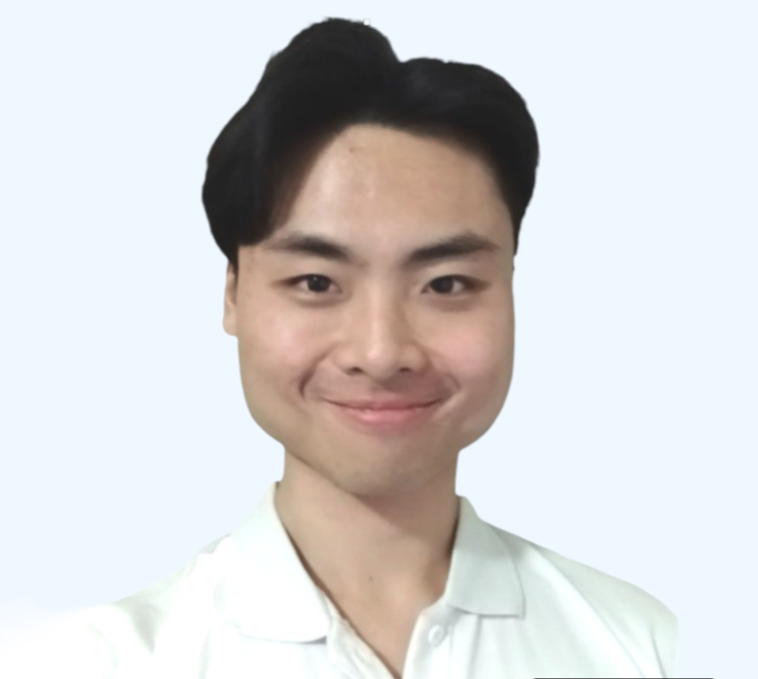
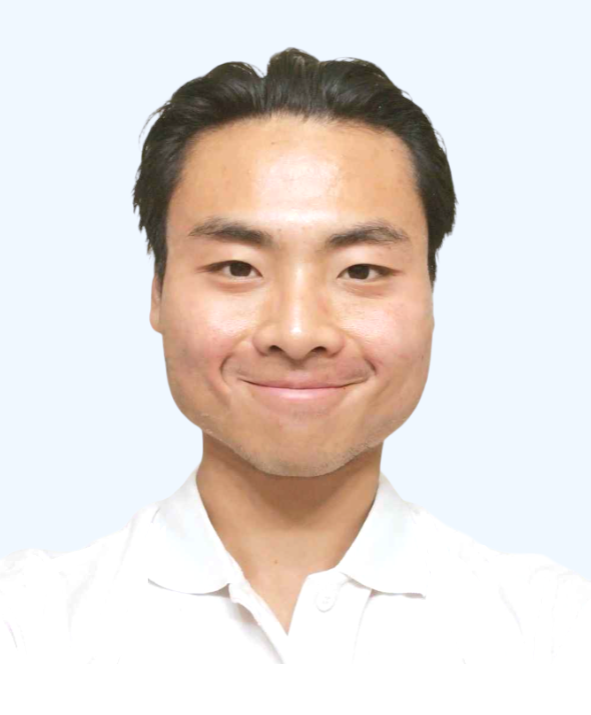
update pfp and desc.

diff --git a/src/scss/partials/layouts/_slide-content.scss b/src/scss/partials/layouts/_slide-content.scss
@@ -72,7 +72,7 @@
                 left: 0;
                 @media screen and (min-width: $sm_breakpoint) {
                     font-weight: normal;
-                    font-size: 7.6rem;
+                    font-size: 6.6rem;
                     width: 70%;
                 }
                 @media screen and (min-width: $md_breakpoint) {
@@ -82,10 +82,10 @@
                 @media screen and (min-width: $lg_breakpoint) {
                     font-size: 10rem;
                 }
-                @media screen and (min-width: $xl_breakpoint) {
-                    font-size: 12rem;
-                    letter-spacing: 1.5rem;
-                }
+                // @media screen and (min-width: $xl_breakpoint) {
+                //     font-size: 12rem;
+                //     letter-spacing: 1.5rem;
+                // }
 
                 line-height: 1;
                 letter-spacing: 1rem;
@@ -166,23 +166,39 @@
             height: 100%;
         }
     }
-    &__pfp-and-title{
+    &__pfp-and-title {
+        //I CHEESED THE MARGIN BOTTOM SPACINGS FOR THIS
+        // TURN ON BACKGORUND RED AND YOU KNOW WHAT I MEAN
         display: flex;
+        align-items: flex-end;
         align-items: center;
+
+        flex-direction: column-reverse;
+        @media screen and (min-width: $sm_breakpoint) {
+            width: 20rem;
+            height: 20rem;
+            flex-direction: row;
+            align-items: flex-end;
+        }
     }
-    &__pfp-container{
-     margin-right: 2rem;
-     margin-bottom: 2rem;
+    &__pfp-container {
+        margin-right: 2rem;
+        margin-bottom: 1.6rem;
     }
-    &__pfp{
+    &__pfp {
         @media screen and (min-width: $lg_breakpoint) {
+            width: 22rem;
+            height: 22rem;
+        }
+        @media screen and (min-width: $md_breakpoint) {
             width: 20rem;
             height: 20rem;
         }
-     
-        width: 18rem;
-        height: 18rem;
-        border-radius: 50%,
+        object-fit: cover;
+        width: 15rem;
+        height: 15rem;
+        border-radius: 50%;
+        object-position: 25% 20%;
     }
 }
 

diff --git a/src/components/Carousel.tsx b/src/components/Carousel.tsx
@@ -18,11 +18,11 @@ import collage_work_mix from "../img/collage_work_mix.jpg";
 import bobbyhill from "../img/bobbyhill.jpg";
 export const SLIDE_ABOUT_ME_DESC =
     "Software Engineer II @ Lightspeed in Toronto, Canada. BSc Computer Science @ Wilfrid Laurier University. Roomates with 2 dogs.";
-export const STARTUP_DESC = `Starty is a social platform to help students innovate together & stand out to employers. Collaborating with accelerator and team to challenge decisions, address market research and pivot on ideas.`;
+export const STARTUP_DESC = `Starty is a social platform to help students innovate together with over 300+ registered users. With our partnership with Laurier's accelerator, we have been able to challenge strategic decisions, conduct thorough market research, and pivot ideas to align with market needs.`;
 export const WORK_PROJECTS_DESC =
     "Holiday recipes from employees in Habanero shared to over a dozen of clients such as Suncor & Petro-Canada.";
 export const SLIDE_PROJECTS_DESC =
-    "Websites I've built (Blizzard, Kijij, Netflix, Steam, and many more)";
+    "Non-enterprise websites I've built (Blizzard, Kijij, Netflix, Steam, and many more)";
 export const SLIDE_WORK_DESC =
     "Products I've engineered in professional workplaces, impacting entreprises such as Sony, Nordstrom, Hudson Bay, Petro Canada.";
 export const slides = [
@@ -35,7 +35,7 @@ export const slides = [
     },
     {
         imgSrc: bobbyhill,
-        title: `My Startup`,
+        title: `Starty`,
         desc: STARTUP_DESC,
     },
     {

diff --git a/src/scss/main.css b/src/scss/main.css
@@ -1316,7 +1316,7 @@ nav {
 @media screen and (min-width: 520px) {
   .content-slide__image-and-text-text-title {
     font-weight: normal;
-    font-size: 7.6rem;
+    font-size: 6.6rem;
     width: 70%;
   }
 }
@@ -1329,12 +1329,6 @@ nav {
 @media screen and (min-width: 992px) {
   .content-slide__image-and-text-text-title {
     font-size: 10rem;
-  }
-}
-@media screen and (min-width: 1200px) {
-  .content-slide__image-and-text-text-title {
-    font-size: 12rem;
-    letter-spacing: 1.5rem;
   }
 }
 .content-slide__image-and-text-text-desc {
@@ -1421,18 +1415,38 @@ nav {
 }
 .content-slide__pfp-and-title {
   display: flex;
+  align-items: flex-end;
   align-items: center;
+  flex-direction: column-reverse;
+}
+@media screen and (min-width: 520px) {
+  .content-slide__pfp-and-title {
+    width: 20rem;
+    height: 20rem;
+    flex-direction: row;
+    align-items: flex-end;
+  }
 }
 .content-slide__pfp-container {
   margin-right: 2rem;
-  margin-bottom: 2rem;
+  margin-bottom: 1.6rem;
 }
 .content-slide__pfp {
-  width: 18rem;
-  height: 18rem;
+  -o-object-fit: cover;
+     object-fit: cover;
+  width: 15rem;
+  height: 15rem;
   border-radius: 50%;
+  -o-object-position: 25% 20%;
+     object-position: 25% 20%;
 }
 @media screen and (min-width: 992px) {
+  .content-slide__pfp {
+    width: 22rem;
+    height: 22rem;
+  }
+}
+@media screen and (min-width: 768px) {
   .content-slide__pfp {
     width: 20rem;
     height: 20rem;

diff --git a/src/components/SlideContent.tsx b/src/components/SlideContent.tsx
@@ -224,7 +224,7 @@ const SlideContent: React.FC<SlideContentProps> = (props) => {
                                 <>
                                     {carouselSlideIndex === FIRST_SLIDE && (
                                         <animated.div
-                                            className="content-slide__pfp-and-title"
+                                            className="content-slide__pfp-and-title "
                                             style={animation}
                                         >
                                             <animated.div className="content-slide__pfp content-slide__pfp-container">
@@ -357,7 +357,7 @@ const SlideContent: React.FC<SlideContentProps> = (props) => {
                                             </a>
 
                                             <h3 className="contact">
-                                                Phone: 289-772-7465
+                                                Phone: +1289-772-7465
                                             </h3>
                                         </animated.div>
                                     )
